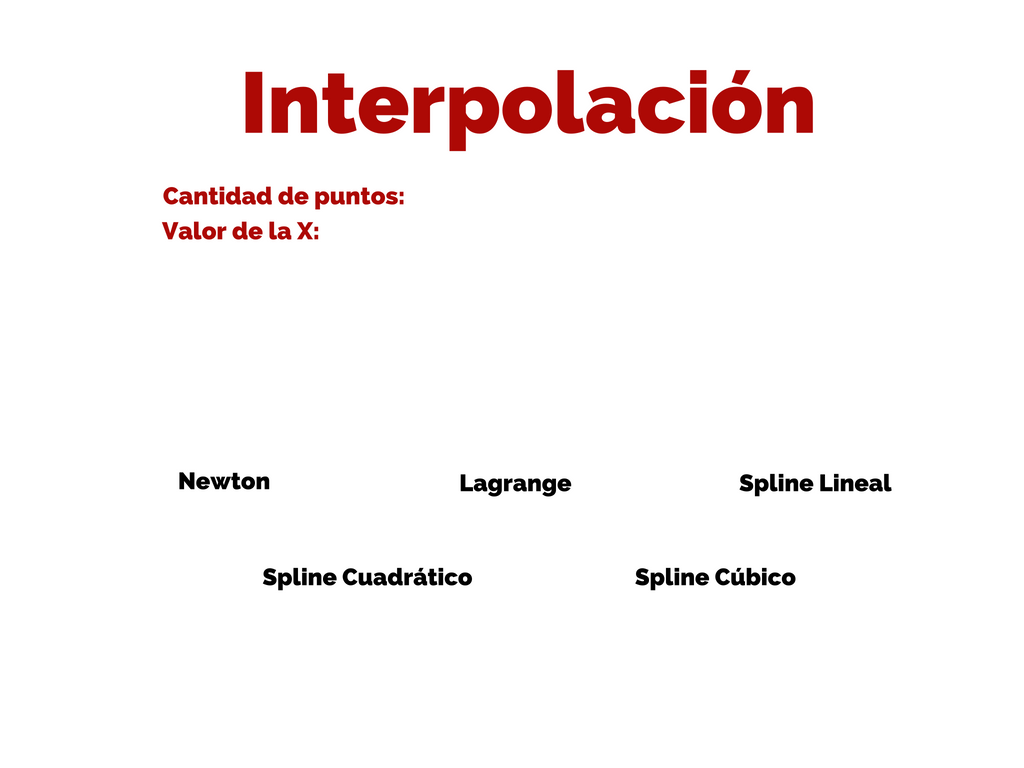
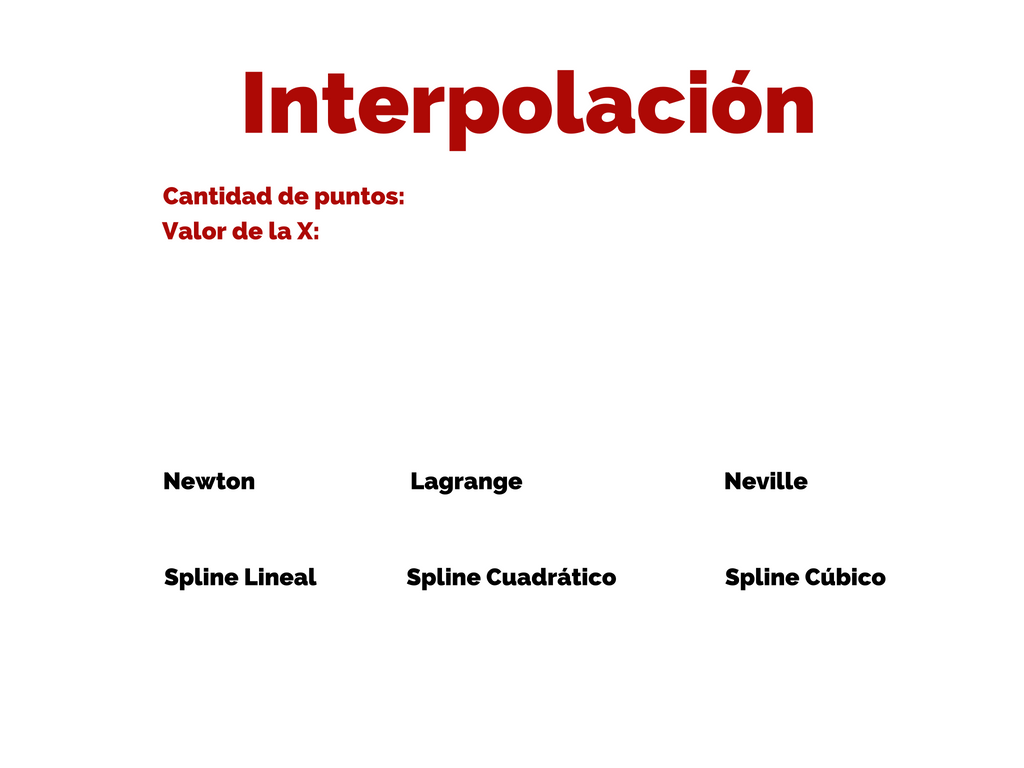
Modificaciones Interfaz
Interpolación y Resultados Interpolación

diff --git a/PracticaAnalisis/src/interfaz/Interpolacion.java b/PracticaAnalisis/src/interfaz/Interpolacion.java
@@ -70,6 +70,8 @@ public class Interpolacion extends javax.swing.JFrame {
         jScrollPane1 = new javax.swing.JScrollPane();
         jTable1 = new javax.swing.JTable();
         jTextField2 = new javax.swing.JTextField();
+        ayudaNeville = new javax.swing.JButton();
+        neville = new javax.swing.JRadioButton();
         jLabel1 = new javax.swing.JLabel();
 
         setDefaultCloseOperation(javax.swing.WindowConstants.EXIT_ON_CLOSE);
@@ -100,7 +102,7 @@ public class Interpolacion extends javax.swing.JFrame {
             }
         });
         getContentPane().add(ayudaNewtonInterpolacion);
-        ayudaNewtonInterpolacion.setBounds(120, 455, 50, 50);
+        ayudaNewtonInterpolacion.setBounds(110, 455, 50, 50);
 
         ayudaLagrange.setIcon(new javax.swing.ImageIcon(getClass().getResource("/imagenes/BotonAyudaPequeno.png"))); // NOI18N
         ayudaLagrange.addActionListener(new java.awt.event.ActionListener() {
@@ -109,7 +111,7 @@ public class Interpolacion extends javax.swing.JFrame {
             }
         });
         getContentPane().add(ayudaLagrange);
-        ayudaLagrange.setBounds(400, 455, 50, 50);
+        ayudaLagrange.setBounds(355, 455, 50, 50);
 
         ayudaSplineLineal.setIcon(new javax.swing.ImageIcon(getClass().getResource("/imagenes/BotonAyudaPequeno.png"))); // NOI18N
         ayudaSplineLineal.addActionListener(new java.awt.event.ActionListener() {
@@ -118,7 +120,7 @@ public class Interpolacion extends javax.swing.JFrame {
             }
         });
         getContentPane().add(ayudaSplineLineal);
-        ayudaSplineLineal.setBounds(680, 455, 50, 50);
+        ayudaSplineLineal.setBounds(110, 550, 50, 50);
 
         ayudaSplineCuadratico.setIcon(new javax.swing.ImageIcon(getClass().getResource("/imagenes/BotonAyudaPequeno.png"))); // NOI18N
         ayudaSplineCuadratico.addActionListener(new java.awt.event.ActionListener() {
@@ -127,7 +129,7 @@ public class Interpolacion extends javax.swing.JFrame {
             }
         });
         getContentPane().add(ayudaSplineCuadratico);
-        ayudaSplineCuadratico.setBounds(210, 550, 50, 50);
+        ayudaSplineCuadratico.setBounds(354, 550, 50, 50);
 
         ayudaSplineCubico.setIcon(new javax.swing.ImageIcon(getClass().getResource("/imagenes/BotonAyudaPequeno.png"))); // NOI18N
         ayudaSplineCubico.addActionListener(new java.awt.event.ActionListener() {
@@ -136,11 +138,11 @@ public class Interpolacion extends javax.swing.JFrame {
             }
         });
         getContentPane().add(ayudaSplineCubico);
-        ayudaSplineCubico.setBounds(580, 550, 50, 50);
+        ayudaSplineCubico.setBounds(670, 550, 50, 50);
 
         buttonGroup1.add(newtonInterpolacion);
         getContentPane().add(newtonInterpolacion);
-        newtonInterpolacion.setBounds(280, 470, 30, 23);
+        newtonInterpolacion.setBounds(255, 470, 30, 23);
 
         buttonGroup1.add(lagrange);
         lagrange.addActionListener(new java.awt.event.ActionListener() {
@@ -149,20 +151,20 @@ public class Interpolacion extends javax.swing.JFrame {
             }
         });
         getContentPane().add(lagrange);
-        lagrange.setBounds(580, 470, 30, 23);
+        lagrange.setBounds(530, 470, 30, 23);
 
         buttonGroup1.add(splineLineal);
         getContentPane().add(splineLineal);
-        splineLineal.setBounds(900, 470, 28, 23);
+        splineLineal.setBounds(320, 565, 28, 23);
 
         buttonGroup1.add(splineCuadratico);
         getContentPane().add(splineCuadratico);
-        splineCuadratico.setBounds(480, 565, 28, 23);
+        splineCuadratico.setBounds(620, 565, 28, 23);
 
         buttonGroup1.add(splineCubico);
         splineCubico.setToolTipText("");
         getContentPane().add(splineCubico);
-        splineCubico.setBounds(800, 565, 28, 23);
+        splineCubico.setBounds(890, 565, 28, 23);
 
         jTextField1.setFont(new java.awt.Font("Lucida Grande", 0, 24)); // NOI18N
         getContentPane().add(jTextField1);
@@ -196,6 +198,15 @@ public class Interpolacion extends javax.swing.JFrame {
         jTextField2.setFont(new java.awt.Font("Lucida Grande", 0, 24)); // NOI18N
         getContentPane().add(jTextField2);
         jTextField2.setBounds(320, 215, 370, 40);
+
+        ayudaNeville.setIcon(new javax.swing.ImageIcon(getClass().getResource("/imagenes/BotonAyudaPequeno.png"))); // NOI18N
+        getContentPane().add(ayudaNeville);
+        ayudaNeville.setBounds(670, 455, 50, 50);
+
+        buttonGroup1.add(neville);
+        neville.setToolTipText("");
+        getContentPane().add(neville);
+        neville.setBounds(810, 470, 28, 23);
 
         jLabel1.setIcon(new javax.swing.ImageIcon(getClass().getResource("/imagenes/Interpolacion.png"))); // NOI18N
         getContentPane().add(jLabel1);
@@ -382,6 +393,7 @@ public class Interpolacion extends javax.swing.JFrame {
     // Variables declaration - do not modify//GEN-BEGIN:variables
     private javax.swing.JButton actualizarN;
     private javax.swing.JButton ayudaLagrange;
+    private javax.swing.JButton ayudaNeville;
     private javax.swing.JButton ayudaNewtonInterpolacion;
     private javax.swing.JButton ayudaSplineCuadratico;
     private javax.swing.JButton ayudaSplineCubico;
@@ -395,6 +407,7 @@ public class Interpolacion extends javax.swing.JFrame {
     private javax.swing.JTextField jTextField1;
     private javax.swing.JTextField jTextField2;
     private javax.swing.JRadioButton lagrange;
+    private javax.swing.JRadioButton neville;
     private javax.swing.JRadioButton newtonInterpolacion;
     private javax.swing.JRadioButton splineCuadratico;
     private javax.swing.JRadioButton splineCubico;

diff --git a/PracticaAnalisis/src/interfaz/TablaInterpolacion.java b/PracticaAnalisis/src/interfaz/TablaInterpolacion.java
@@ -50,7 +50,7 @@ public class TablaInterpolacion extends javax.swing.JFrame {
             }
         });
         getContentPane().add(botonRegresar);
-        botonRegresar.setBounds(100, 20, 80, 80);
+        botonRegresar.setBounds(90, 10, 80, 80);
 
         jTextArea1.setColumns(20);
         jTextArea1.setRows(5);
